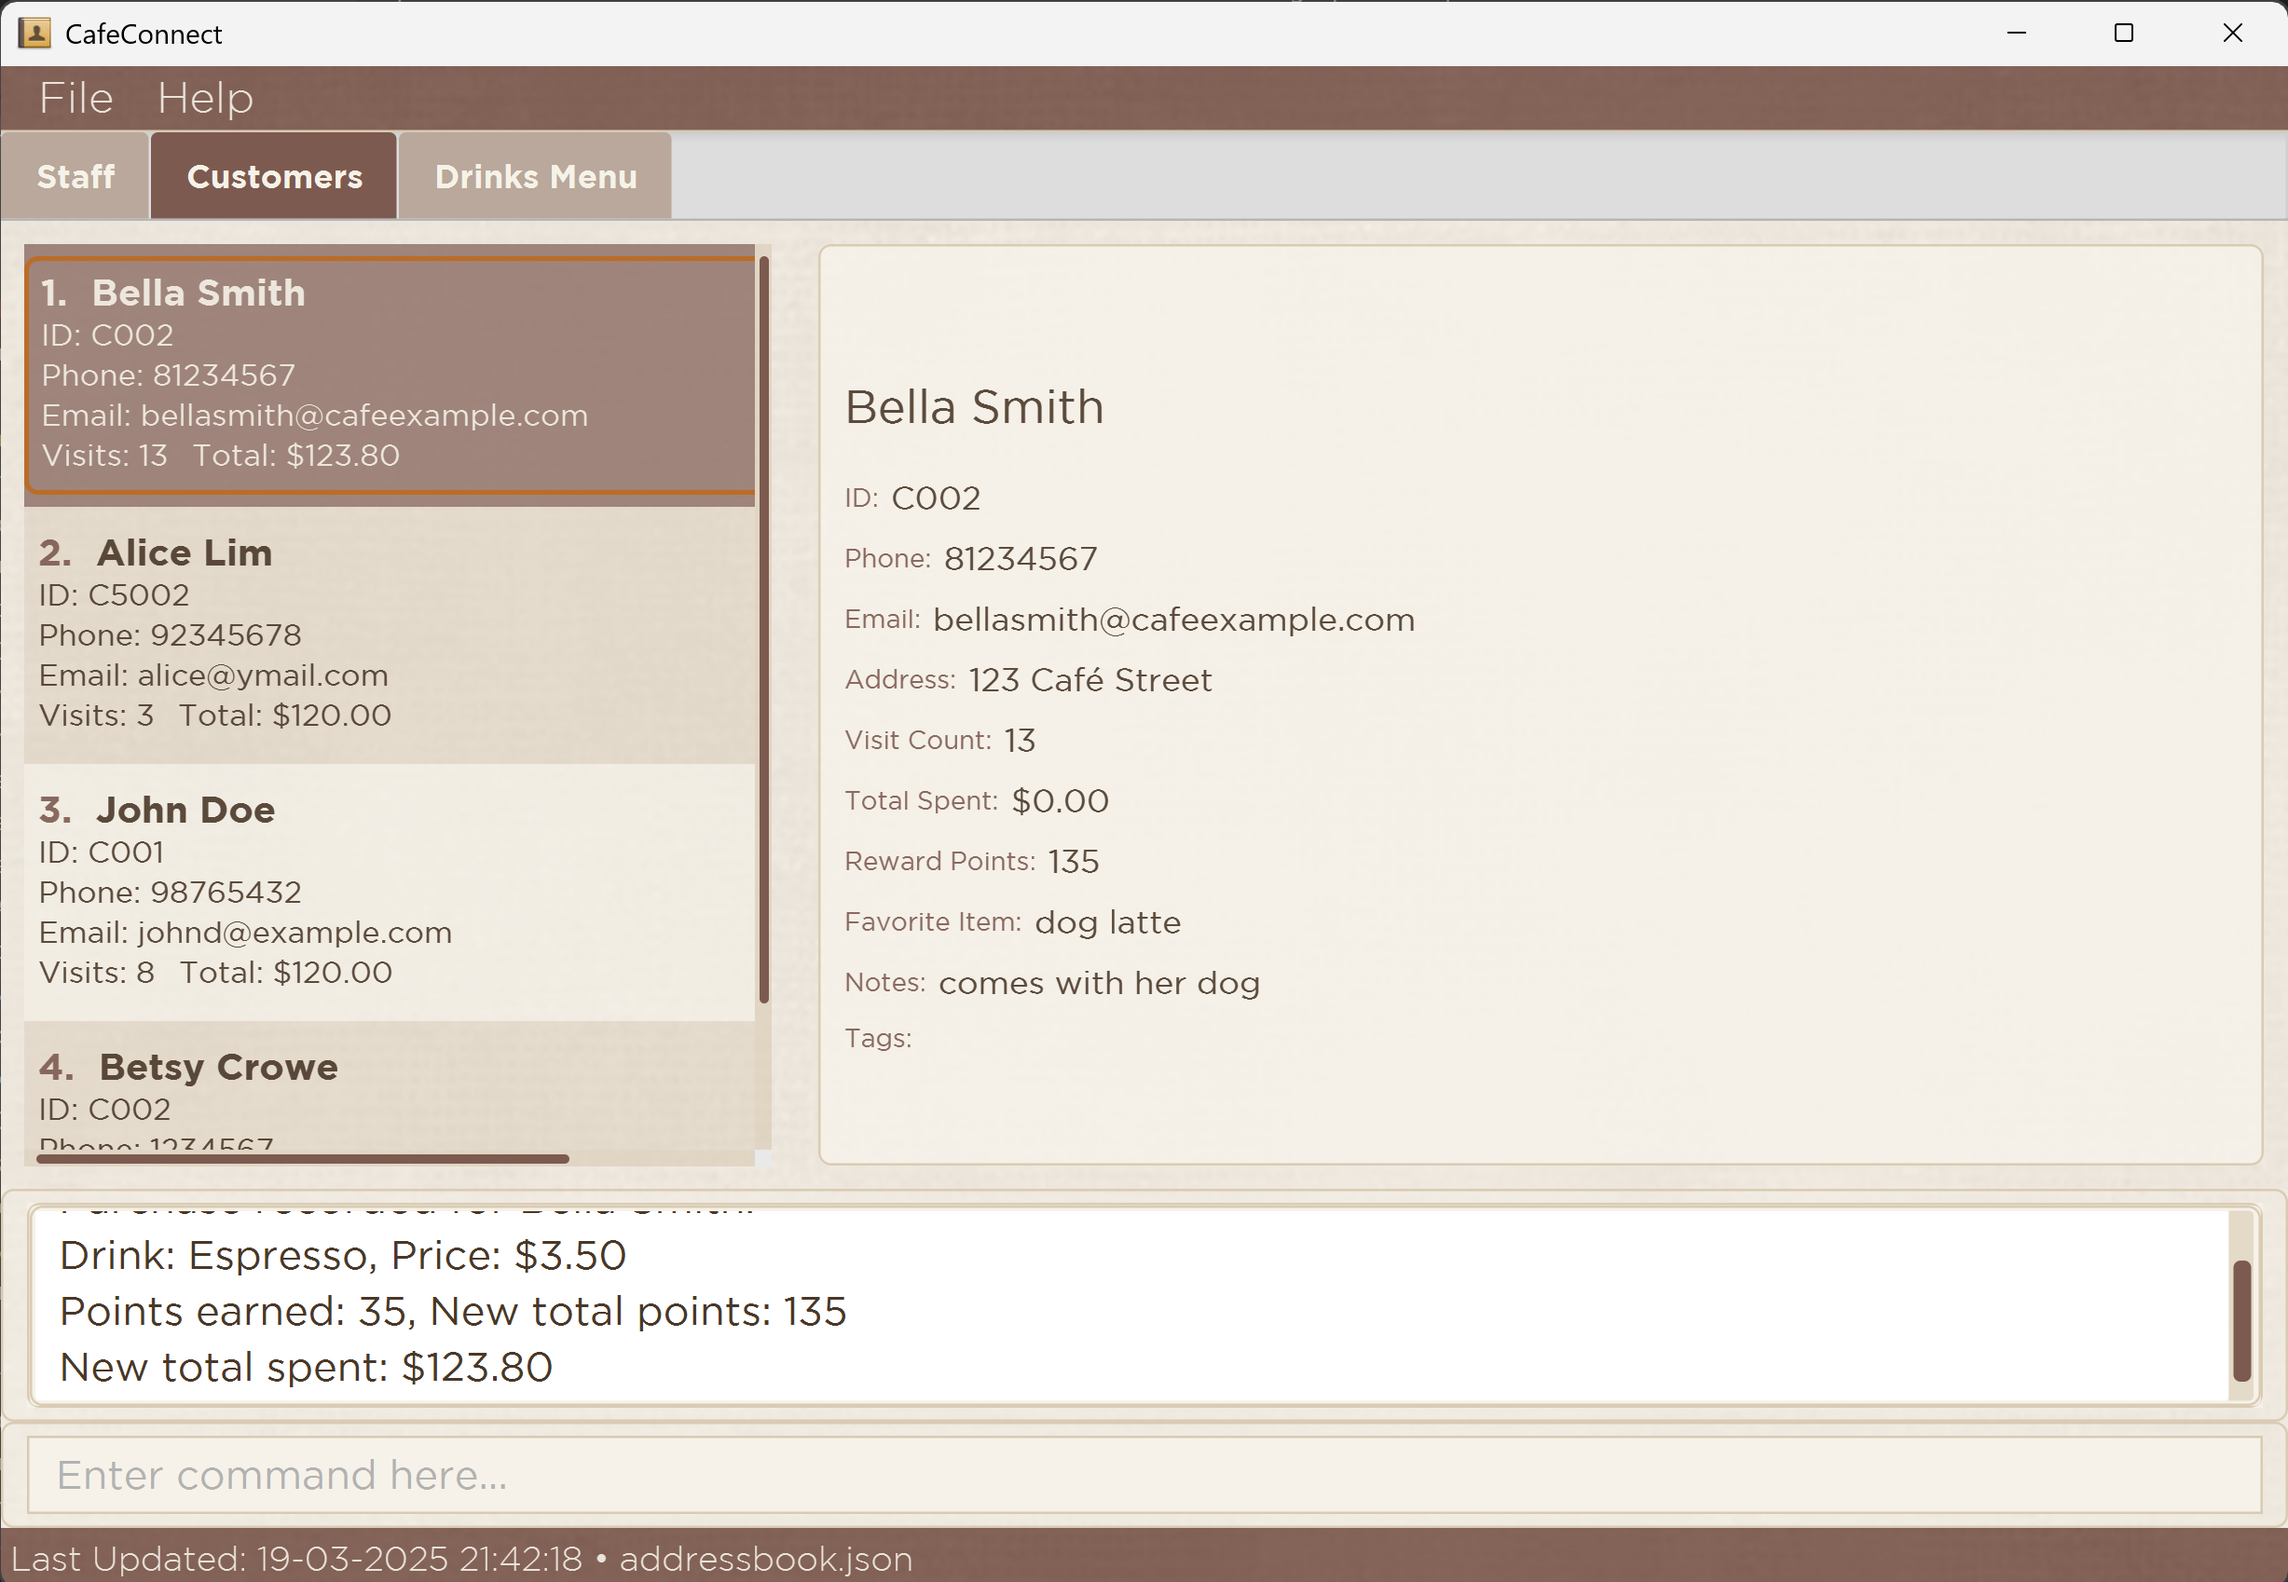
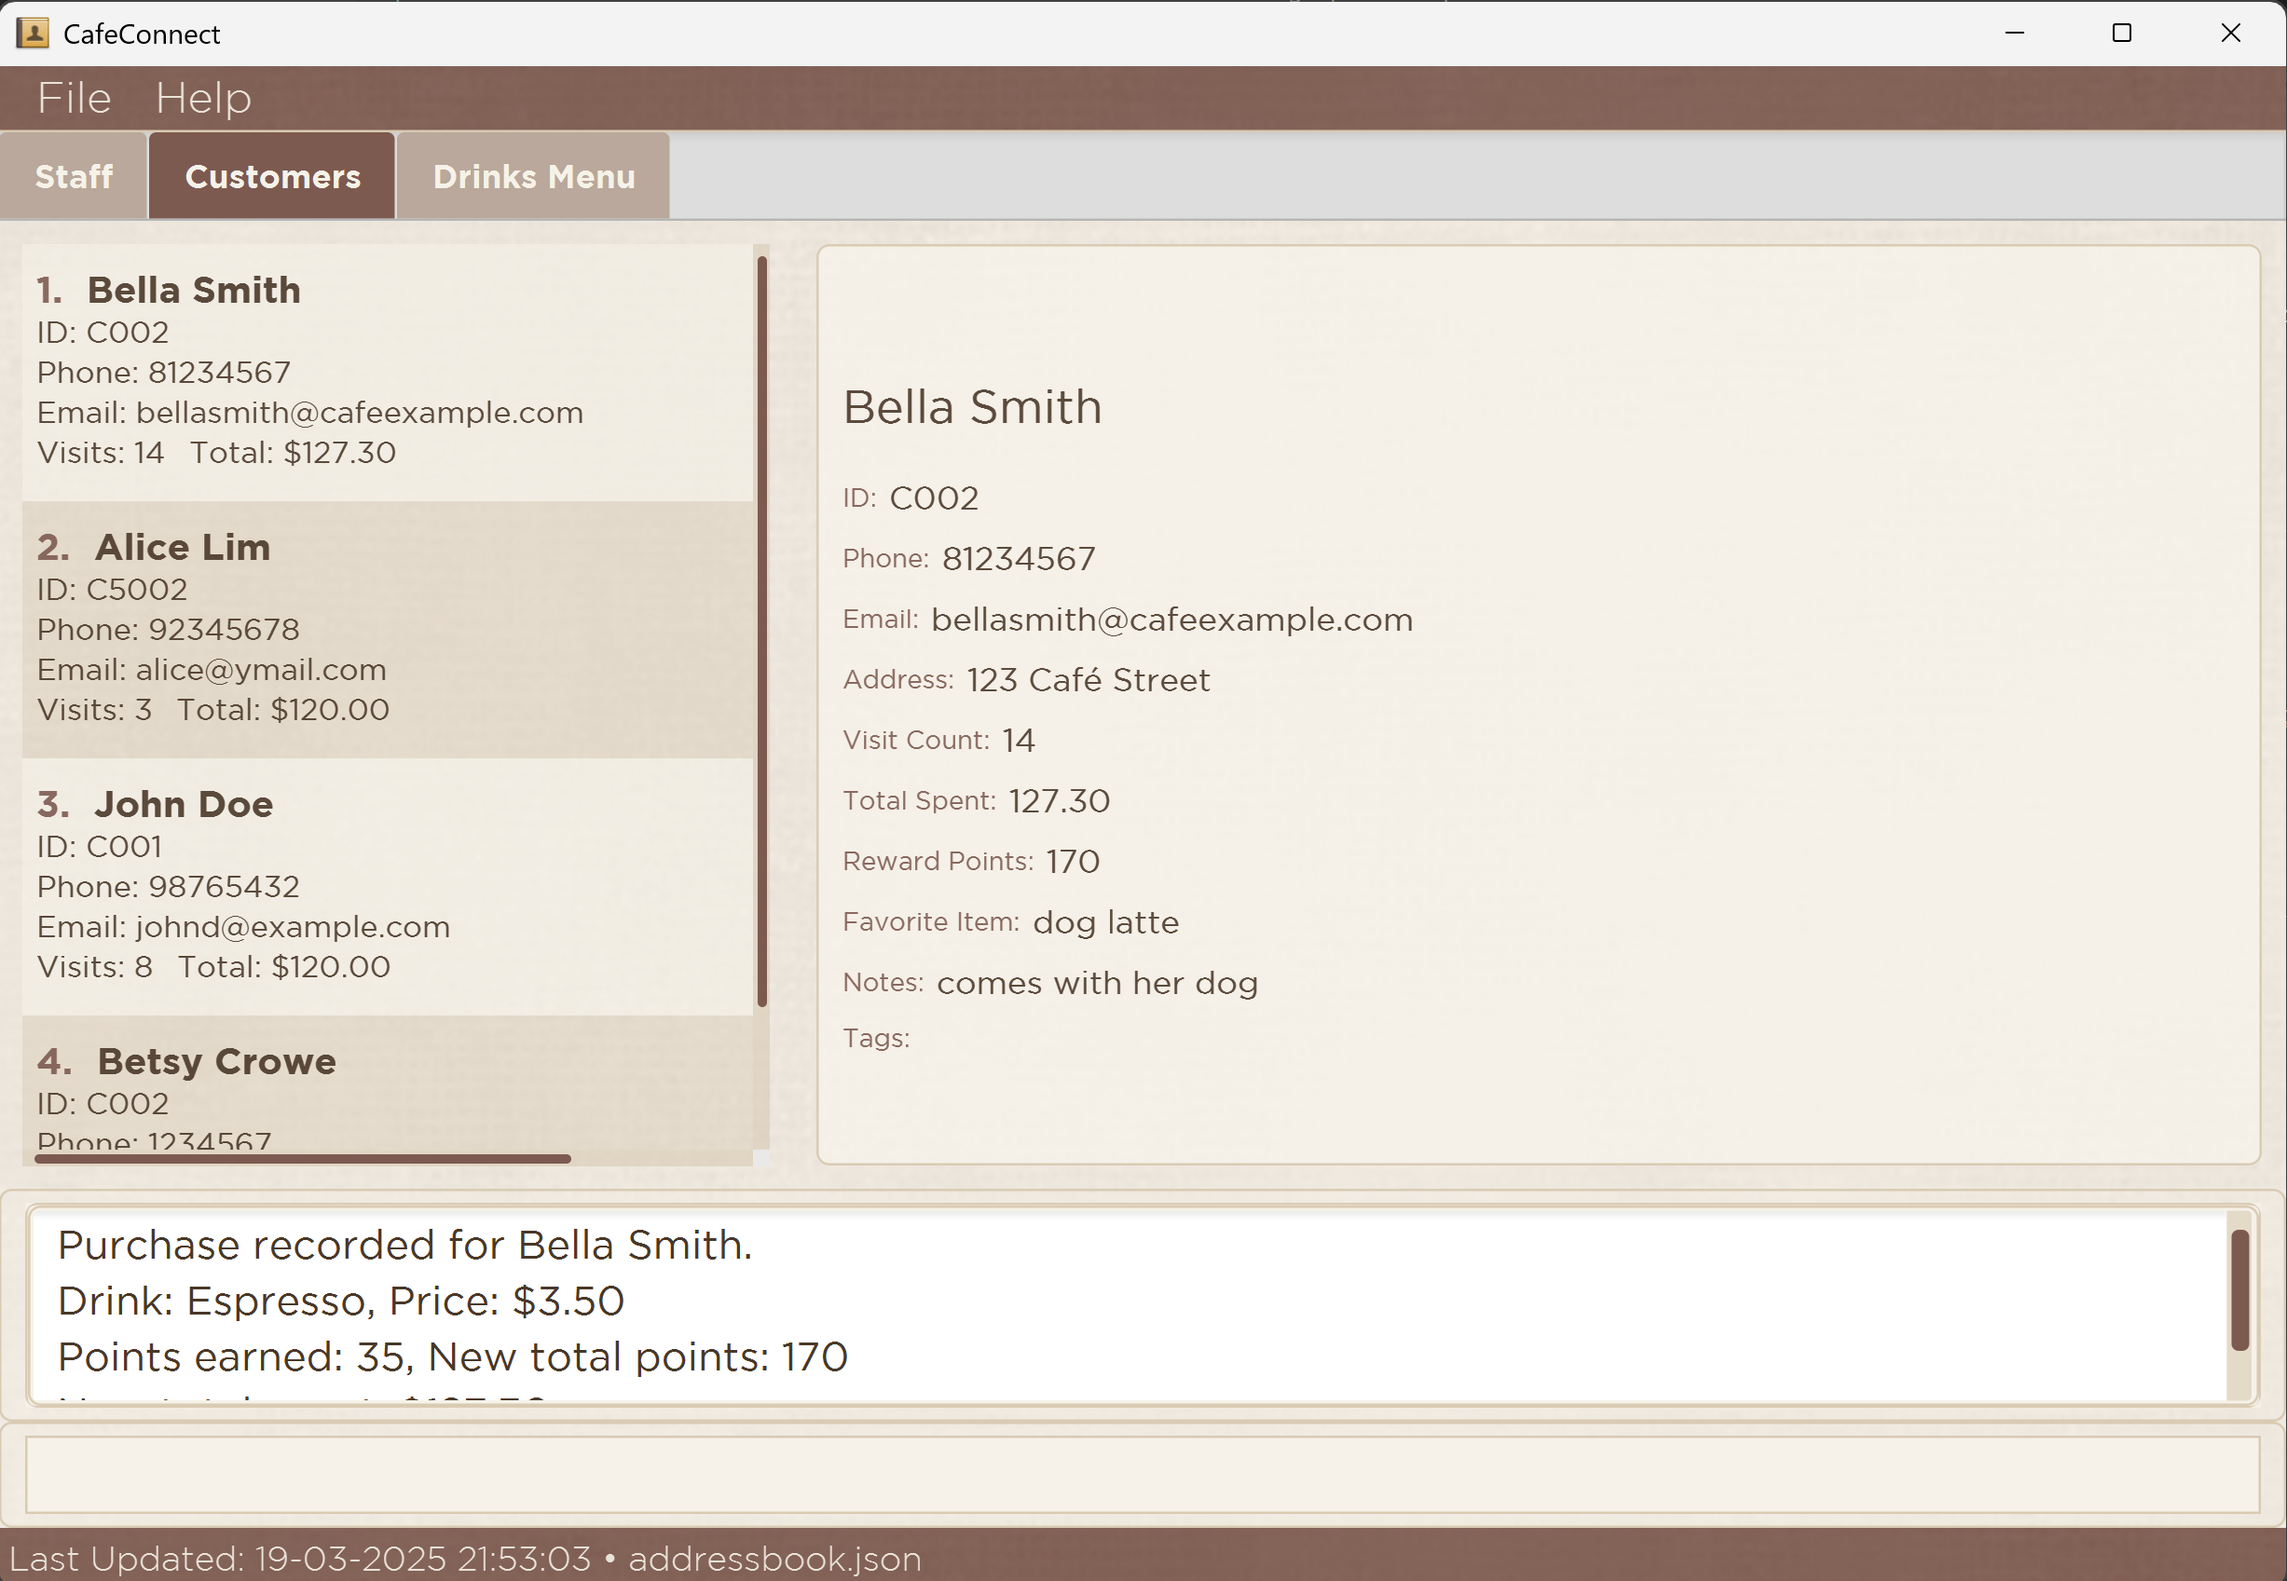
fix issues relating to customer totalspent

diff --git a/src/main/java/seedu/address/ui/CustomerDetailPanel.java b/src/main/java/seedu/address/ui/CustomerDetailPanel.java
@@ -155,7 +155,7 @@ public class CustomerDetailPanel extends UiPart<Region> {
             }
 
             try {
-                safeSetText(totalSpent, String.format("$%.2f", customer.getTotalSpent()));
+                safeSetText(totalSpent, String.valueOf(customer.getTotalSpent()));
             } catch (Exception e) {
                 safeSetText(totalSpent, "$0.00");
             }
